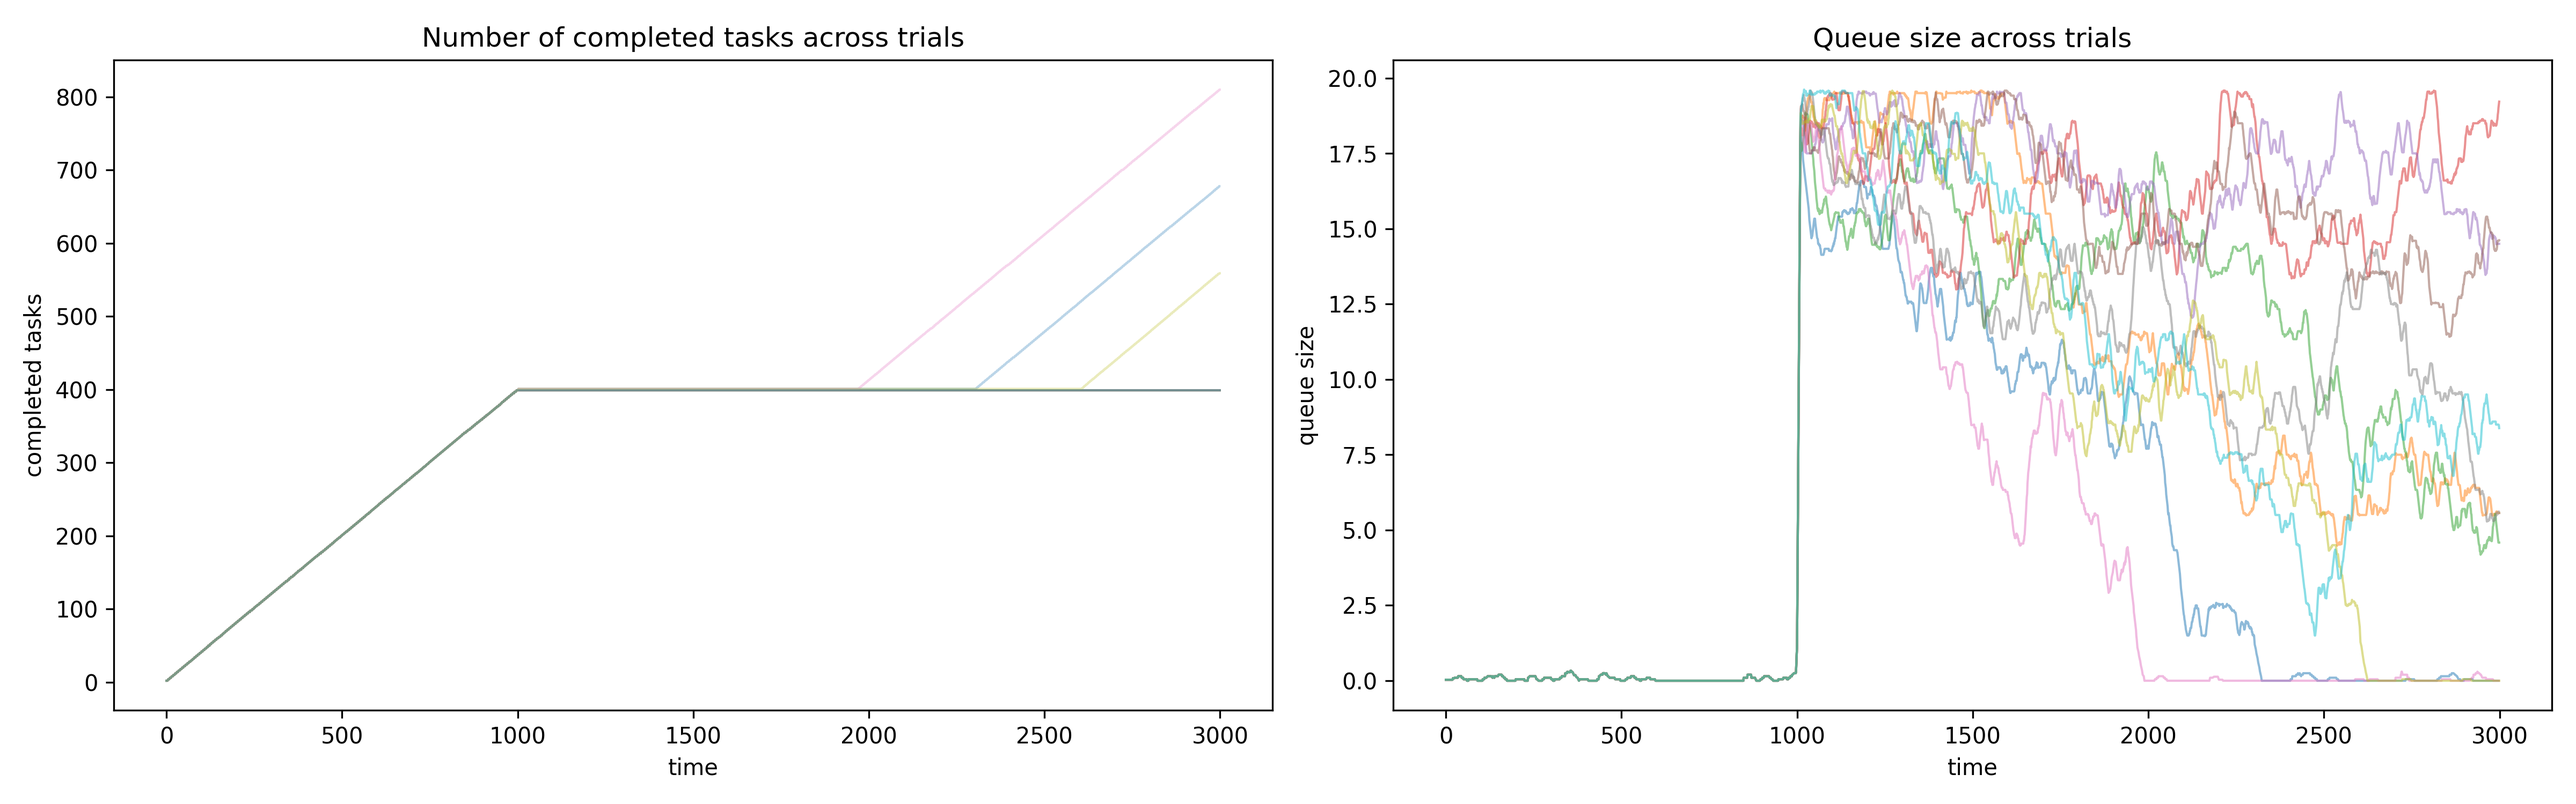
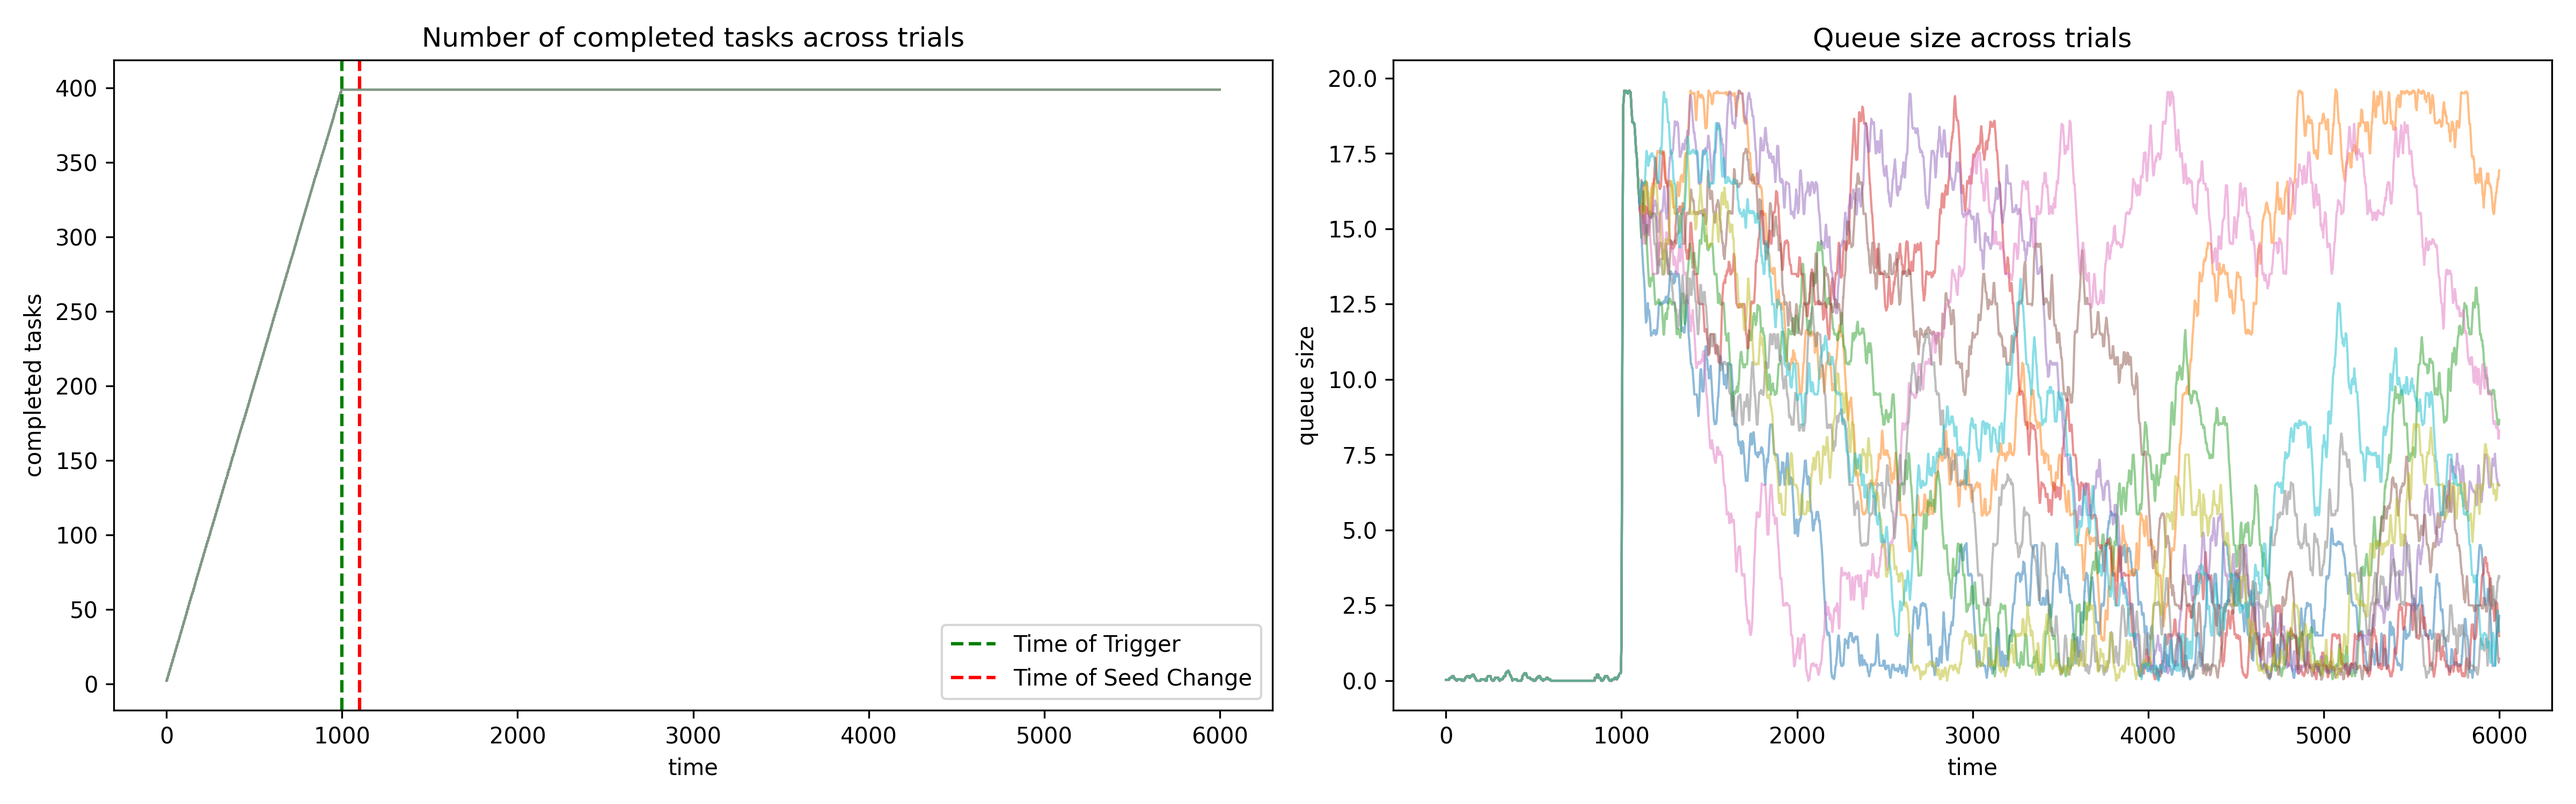
Run for longer time

diff --git a/main2.py b/main2.py
@@ -1,4 +1,4 @@
-from typing import TYPE_CHECKING
+from typing import TYPE_CHECKING, Any
 
 import matplotlib.pyplot as plt
 import numpy as np
@@ -251,12 +251,19 @@ def experiment2(
     el.spawn(Addr("client"), create_client)
     el.spawn(Addr("client2"), create_client2)
     el.spawn(Addr("trigger"), create_trigger)
-    el.run(trigger_delay + 1_000)
+    reseed_time = trigger_delay + 100_000
+    el.run(reseed_time)
 
     for seed in range(10):
         new_el = el.clone()
         new_el.seed_all(seed)
-        yield analyze_data(new_el.run(3_000_000))
+        yield (
+            analyze_data(new_el.run(6_000_000)),
+            {
+                "reseed_time": reseed_time // 1000,
+                "trigger_time": trigger_delay // 1000,
+            },
+        )
 
 
 def plot_single_run_metrics(metrics: dict[str, pl.DataFrame]):
@@ -313,22 +320,39 @@ def plot_single_run_metrics(metrics: dict[str, pl.DataFrame]):
 def metastable_comparison_plot():
     results = list(tqdm(experiment2(timeout=1910, seed=0), total=10))
 
-    def plot_metrics(ax1: Axes, ax2: Axes, results: list[dict[str, pl.DataFrame]]):
+    def plot_metrics(
+        ax1: Axes,
+        ax2: Axes,
+        results: list[tuple[dict[str, pl.DataFrame], dict[str, Any]]],
+    ):
         ax1.set_title("Number of completed tasks across trials")
         ax1.set_xlabel("time")
         ax1.set_ylabel("completed tasks")
-        for result in results:
+        for result, _ in results:
             ax1.plot(
                 result["goodput"]["epoch"],
                 result["goodput"]["completed"],
                 alpha=0.3,
                 linewidth=1,
             )
+        ax1.axvline(
+            x=results[0][1]["trigger_time"],
+            color="green",
+            linestyle="--",
+            label="Time of Trigger",
+        )
+        ax1.axvline(
+            x=results[0][1]["reseed_time"],
+            color="red",
+            linestyle="--",
+            label="Time of Seed Change",
+        )
+        ax1.legend(loc="lower right")
 
         ax2.set_title("Queue size across trials")
         ax2.set_xlabel("time")
         ax2.set_ylabel("queue size")
-        for result in results:
+        for result, _ in results:
             ax2.plot(
                 result["queue_size"]["epoch"],
                 result["queue_size"]["size"],
